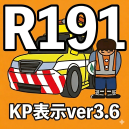
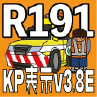
アイコンを新しいデザインに更新（キャッシュを v7 にして配り直す）

diff --git a/service-worker.js b/service-worker.js
@@ -1,4 +1,4 @@
-const CACHE_NAME = 'r191-kp-v6';
+const CACHE_NAME = 'r191-kp-v7';
 const ASSETS = [
   './',
   'manifest.json',
